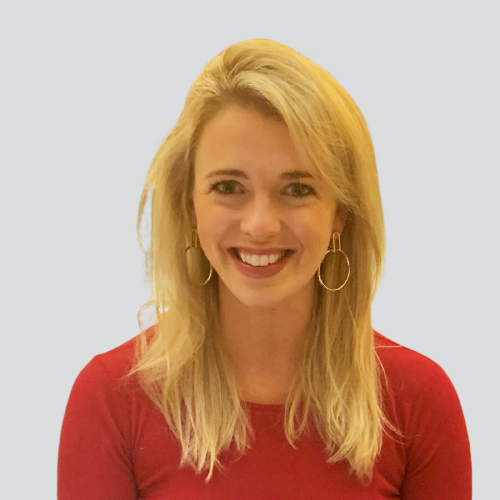
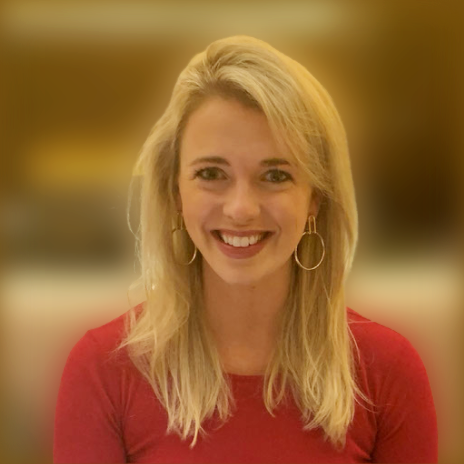
New Photo & Remove LI

diff --git a/contact/index.html b/contact/index.html
@@ -87,9 +87,6 @@
 						<p class="copyright">Copyright &copy; Amplifyer <span id="year"></span>
 					</div>
 					<div class="col-sm-6 text-right">
-						<ul class="socialIcons footerSocial">
-							<li><a href="https://www.linkedin.com/company/amplifyer/" target="_blank" rel="noopener nofollow"><span class="icon-linkedin2"></span></a></li>
-						</ul>
 					</div>
 				</div>
 			</div>
